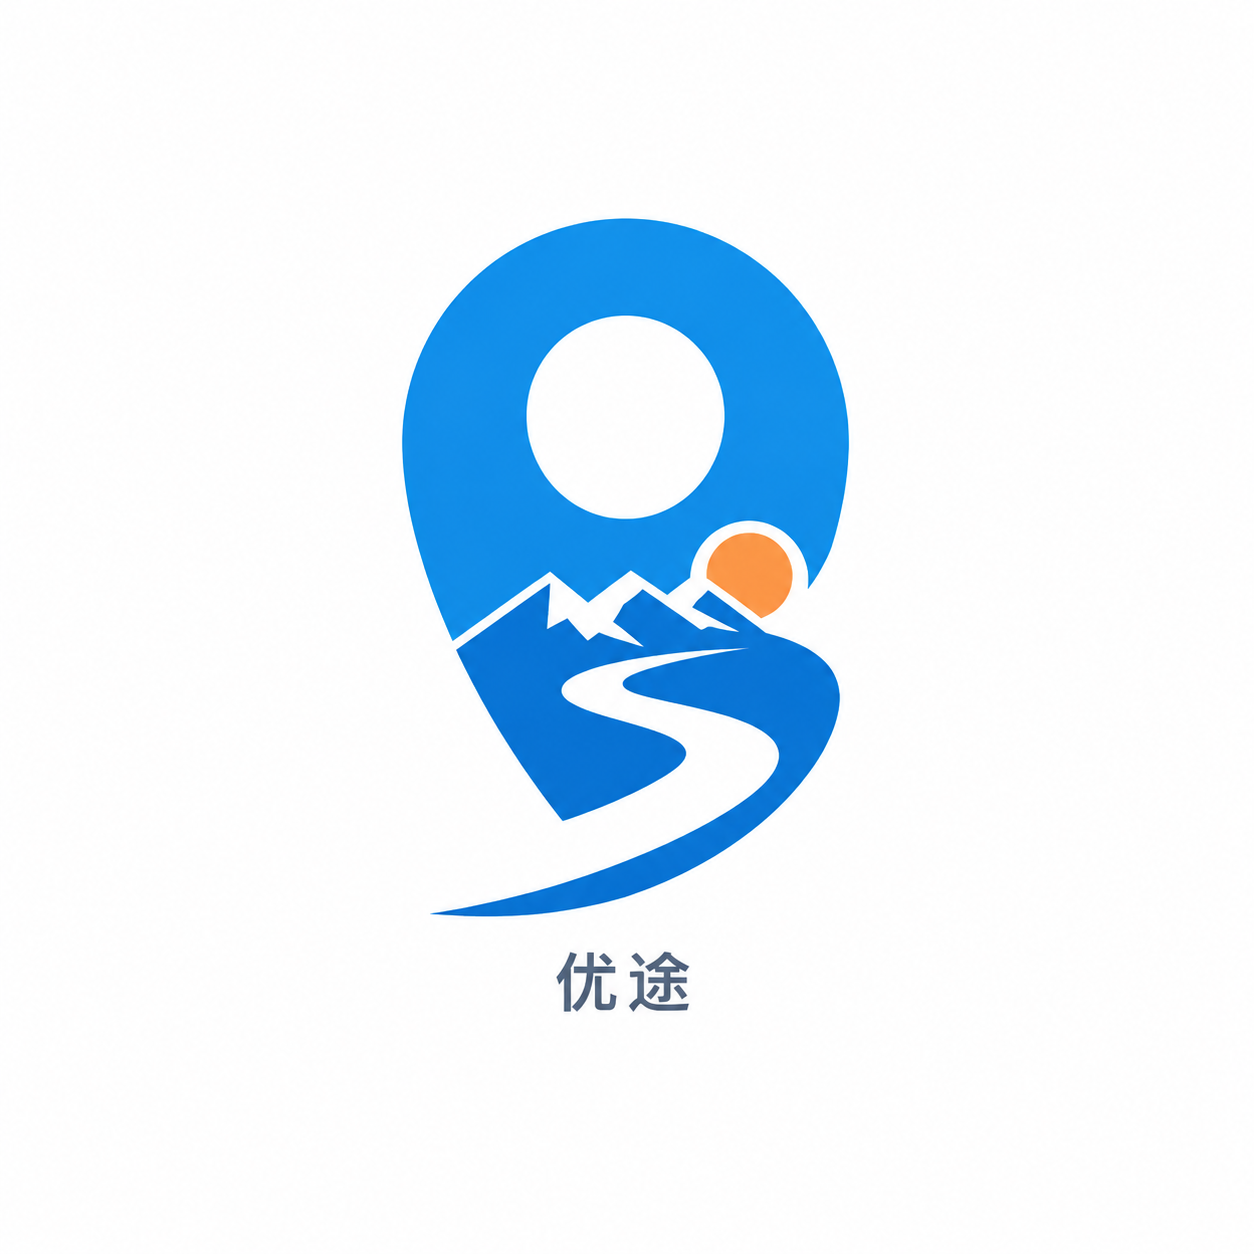
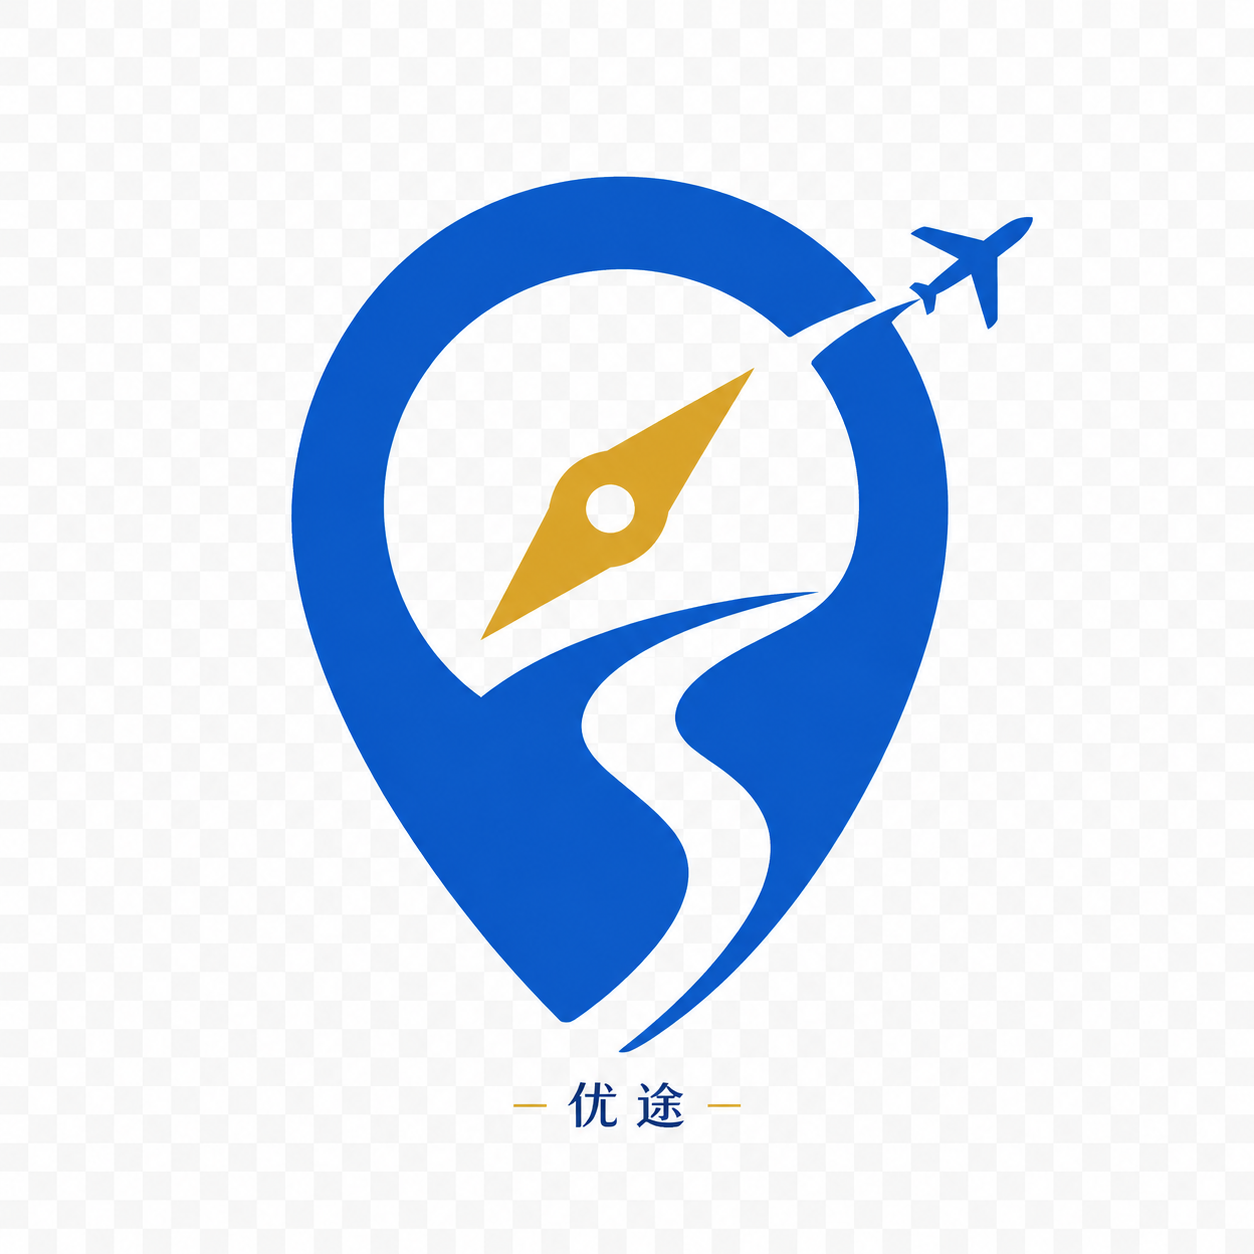
平台logo

Changed region(s): [[0.2177, 0.1244, 0.8397, 0.8397], [0.4354, 0.8708, 0.5598, 0.9019]]

diff --git a/frontend/src/pages/HomePage.vue b/frontend/src/pages/HomePage.vue
@@ -291,7 +291,7 @@ import SkeletonCard from "../components/SkeletonCard.vue";
 import { useAuthStore } from "../stores/auth";
 import { useTravelStore } from "../stores/travel";
 
-const brandLogoUrl = "/brands/youtu.png";
+const brandLogoUrl = "/brands/youtu_logo.png";
 const store = useTravelStore();
 const auth = useAuthStore();
 const selectedCity = ref("北京");

diff --git a/frontend/src/App.vue b/frontend/src/App.vue
@@ -320,7 +320,7 @@ import ToastContainer from "./components/ToastContainer.vue";
 import { useAuthStore } from "./stores/auth";
 import { useToastStore } from "./stores/toast";
 
-const brandLogoUrl = "/brands/youtu.png";
+const brandLogoUrl = "/brands/youtu_logo.png";
 const auth = useAuthStore();
 const toast = useToastStore();
 const route = useRoute();
